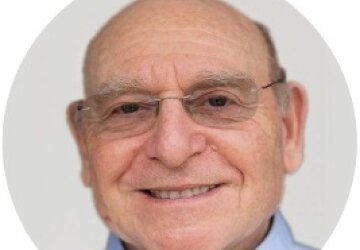
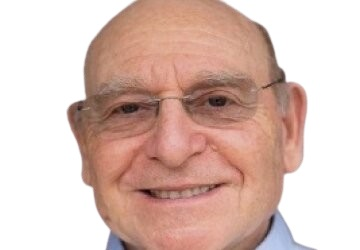
Update - adam headshot added

diff --git a/src/components/home/TeamCarousel.jsx b/src/components/home/TeamCarousel.jsx
@@ -9,12 +9,13 @@ import jeff from '/public/members/jeff.jpg';
 import emma from '/public/members/emma.jpg';
 import Irvine from '/public/members/Irvine.jpg';
 import Ashleigh from '/public/members/Ashleigh.jpg';
+import adam from '/public/members/Adam.jpeg';
 import { useState } from 'react';
 
 const members = [
   {
     name: 'Adam Gersch',
-    image: null,
+    image: adam,
     position: 'Founder & CEO',
     details: (
       <p>
@@ -205,11 +206,11 @@ const TeamCarousel = ({ darkText = false, isDouble }) => {
               <div className="h-[300px] w-full rounded-3xl overflow-hidden bg-gray-200">
                 {item?.image && <Image className="object-cover object-center h-full w-full" alt={item.name} src={item.image} />}
               </div>
-              <h3 className={`${darkText ? 'text-black' : 'text-white'} mt-3 truncate md:mt-6 text-2xl md:text-[32px] font-semibold `}>
+              <h3 className={`${darkText ? 'text-black' : '!text-white'} mt-3 truncate md:mt-6 text-2xl md:text-[32px] font-semibold `}>
                 {item.name}
               </h3>
-              <p className={`font-medium mt-1 truncate`}>{item?.position}</p>
-              <div className="mt-3 line-clamp-3">{item?.details}</div>
+              <p className={`font-medium mt-1 truncate ${darkText ? 'text-black' : 'text-white'}`}>{item?.position}</p>
+              <div className={`mt-3 line-clamp-3 ${darkText ? 'text-black' : 'text-white'}`}>{item?.details}</div>
               <button
                 onClick={() => setSelectedMember(item)}
                 className="mt-4 px-4 py-2 rounded-full border border-primary text-primary hover:bg-primary hover:text-white transition-all"

diff --git a/src/app/page.js b/src/app/page.js
@@ -64,14 +64,15 @@ export default function Home() {
         <ServiceCarousel />
         <Serving />
         {/* Team Carousel */}
-        <section className="bg-secondary py-16 md:py-[80px] mt-[10px] md:mt-[80px]">
-          <h4 className="text-4xl md:text-5xl mb-12 md:mb-[70px] text-white text-center px-4 font-medium">Meet The Founder</h4>
-          <MeetOurFounder />
-        </section>
-
-        <section className=" py-16 lg:max-w-[1318px] mx-auto md:py-[80px] mt-[10px] md:mt-[80px]">
+        <section className="bg-secondary pb-[120px] pt-16 md:pt-[80px] md:pb-[130px] mt-[10px] md:mt-[80px]">
+          {/* <h4 className="text-4xl md:text-5xl mb-12 md:mb-[70px] text-white text-center px-4 font-medium">Meet The Founder</h4> */}
+          {/* <MeetOurFounder /> */}
           <TeamCarousel />
         </section>
+
+        {/* <section className=" py-16 lg:max-w-[1318px] mx-auto md:py-[80px] mt-[10px] md:mt-[80px]">
+          <TeamCarousel />
+        </section> */}
 
         {/* <MediationCalculation /> */}
         <LearnMore />

diff --git a/src/app/team/page.jsx b/src/app/team/page.jsx
@@ -12,6 +12,7 @@ import Nikeisha from '/public/members/Nikeisha.jpg';
 import Altaf from '/public/members/Altaf.jpeg';
 import { useState } from 'react';
 import { X } from 'lucide-react';
+import adam from '/public/members/Adam.jpeg';
 
 // export const metadata = {
 //   title: 'Team - Global Mediation - Mediation Services UK',
@@ -22,7 +23,7 @@ import { X } from 'lucide-react';
 const members = [
   {
     name: 'Adam Gersch',
-    image: null,
+    image: adam,
     position: 'Founder & CEO',
     details: (
       <p>
